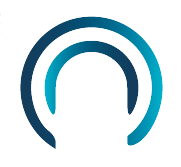
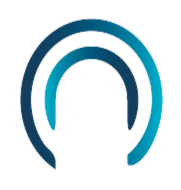
reajuste imagen luminaria

diff --git a/webserver/assets/js/aux_functions.js b/webserver/assets/js/aux_functions.js
@@ -252,6 +252,7 @@ function openGroupControl(buttonText)
 
     var popupText = popup.querySelector('h3');
     var groupTypeIcon = iframeDocument.getElementById('deviceTypeIcon');
+    groupTypeIcon.src = "images/defaultLightIcon.png";
 			
     if (buttonText === 'Lighting') { addressClicked = '65537'; groupTypeIcon.src = "images/normalLightIcon.png"; }
     else if (buttonText === 'Emergency') { addressClicked = '65538'; groupTypeIcon.src = "images/emergencyLightIcon.png"; }

diff --git a/webserver/assets/js/websocket.js b/webserver/assets/js/websocket.js
@@ -287,6 +287,7 @@ function processNodeInfo(value)
 
     if (deviceType == "1") { deviceTypeIcon.src = "images/emergencyLightIcon.png"; }
     else if (deviceType == "6") { deviceTypeIcon.src = "images/normalLightIcon.png"; }
+    else { deviceTypeIcon.src = "images/defaultLightIcon.png"; }
 }
 
 function processGroupBasicInfo(value) {
